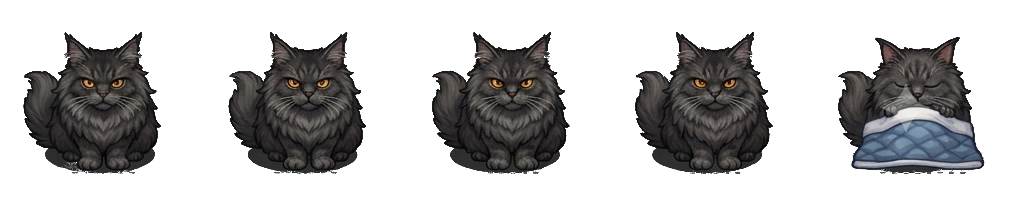
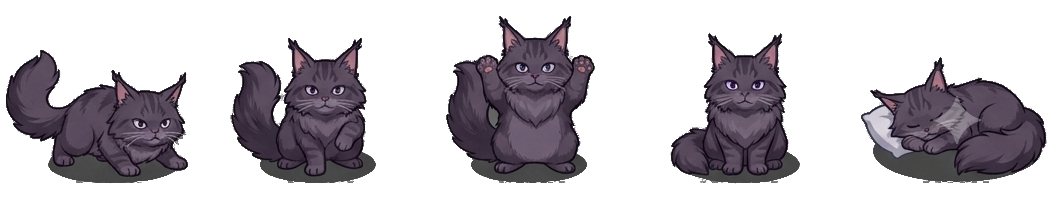
메인쿤 재발주 — 발주서부터 새 그림까지 (#2)
* 메인쿤 재발주서 — 잰 수치로 대상을 좁히고, 칸별 앞발 위치를 못 박는다

앞 작업에서 "그림은 붙었지만 애니메이션이 밋밋하다"고 적었다. 눈으로 본
인상이었고, 열다섯 마리를 실제로 재 보니 그 판단이 틀렸다.

칸끼리 픽셀 변화율 (알파나 색이 40 넘게 다른 픽셀 / 둘 중 하나라도 그림이 있는 픽셀)

                     0↔1   1↔2   2↔3   0↔3
  검은냥(기존 최저)    18%   26%   19%   35%
  사바나냥            59%   37%   34%   66%   ← 기존 아홉보다 잘 움직인다
  메인쿤냥            19%    8%    5%   25%   ← 유일하게 기준선 아래

정정: 커밋 97bb210 다음 커밋과 PR #1 에 "메인쿤·사바나"라고 적은 것은 틀렸다.
사바나는 멀쩡하다. 그대로 뒀으면 필요 없는 발주를 한 번 더 했다.
푸시된 커밋 메시지는 안 고친다(히스토리를 다시 쓰지 않는다) — 문서에서 고쳤다.

- tools/art-spec.mjs
  - REDO_CATS = ['mainecoon'] — 그림이 붙은 고양이는 발주 목록에서 빠지므로
    (newCats 는 !t.frames 로 고른다) 다시 받을 통로가 없었다. 보스의 KEEP_AS_IS
    와 같은 결로 손으로 관리한다. 왜 이 한 마리인지 위 수치를 주석에 적었다.
  - CAT_BRIEF 에 선택 필드 frames(문자열 5개). 있으면 규칙 아래에 '이 고양이의
    다섯 칸' 블록이 붙는다. 칸 밖에 그린다 — 칸 안에 글씨를 넣으면 그대로
    그려져 온다(COMMON 이 금지하는 그것이다).
  - 메인쿤 다섯 칸: 앞발이 바닥 → 가슴 → 어깨 위 → 바닥으로 오가는 호(弧).
    wrong 도 '가장 커야 한다'(주문대로 왔다)에서 실제 실패로 바꿨다.
  - 재발주 칸에는 지금 그림을 안 깐다. 처음 구웠을 때 다섯 칸에 지금의 메인쿤이
    그대로 깔렸다 — 고치려는 것을 시트가 가르치는 셈이라 벡터 밑그림으로 되돌렸다.
    화풍은 오른쪽 위 참고 띠(메인쿤 자신도 거기 있다)가 맡는다.
  - 새 규칙 한 줄이 폭을 8px 넘겨 도구가 예외를 던졌다 — 줄여서 통과시켰다.
- docs/확장가이드.md — '이미 붙은 그림을 다시 받고 싶을 때' 절. 밋밋한지는
  눈이 아니라 재서 판단한다는 것과 기준선을 적었다.
- docs/속성과카드.md — 사바나를 뺀 정정.
- tools/slice-sheet.mjs — 주석의 발주서 이름이 없는 파일을 가리키고 있었다
  (24-art-cards-*.png → 23-art-cats-*.png).

결과: tools/out/23-art-cats-1.png 한 장 (1694×1423, 예상 셀 218px —
지난 6종 시트의 실제 201px 보다 크다. 한 마리라 칸 수가 절반이다).
검사 567 그대로 · i18n 6항목 0건 · web/ 은 안 건드렸다.
[…]

diff --git a/web/js/framesets.js b/web/js/framesets.js
@@ -98,8 +98,15 @@ registerFrameSet('cat-angora', {
 registerFrameSet('cat-savannah', {
   src: 'art/cat-savannah.png', ...CAT4, body: { cx: 94, cy: 103, h: 141 },
 })
+/*
+ * 메인쿤만 칸이 212px 이다 — 다섯 마리와 같이 온 그림의 다섯 칸이 서로 8%·5% 밖에
+ * 안 달라(기존 최저는 18%·26%) 혼자 다시 받았고, 한 마리짜리 시트라 칸이 커졌다.
+ * 다시 받은 그림은 53%·38%·52% · 발사↔대기 66% 로 기존 아홉 대역 안에 들어왔다.
+ * body 는 같은 규칙으로 대기 칸에서 쟀다 (h 152 = 칸의 0.72).
+ */
 registerFrameSet('cat-mainecoon', {
-  src: 'art/cat-mainecoon.png', ...CAT4, body: { cx: 98, cy: 103, h: 142 },
+  src: 'art/cat-mainecoon.png', frames: 5, w: 212, h: 212,
+  body: { cx: 99, cy: 108, h: 152 },
 })
 
 /**

diff --git a/docs/확장가이드.md b/docs/확장가이드.md
@@ -247,6 +247,32 @@ NODE_PATH=/opt/node22/lib/node_modules node tools/art-spec.mjs
 고리·엘리트 왕관은 코드가 그리므로 프레임이 필요 없고, 프레임을 줄인 만큼 같은
 가로 폭에서 칸이 커진다 = 그림이 커진다.
 
+### 이미 붙은 그림을 **다시** 받고 싶을 때
+
+발주 대상은 `newCats = listTowers().filter((t) => !t.frames)` 다 — `frames` 가 붙으면 목록에서 빠진다.
+그래서 그림이 마음에 안 들어도 그대로는 발주서가 안 나온다. `art-spec.mjs` 의 `REDO_CATS` 에
+id 를 넣으면 다시 나온다(보스의 `KEEP_AS_IS` 와 같은 결로 손으로 관리하는 목록이다).
+
+재발주 시트는 두 가지가 다르다:
+
+- **격자 칸에 지금 그림을 안 깐다.** 그대로 깔면 "이 다섯 칸을 그대로 다시 그려라"가 되어
+  고치려는 것을 시트가 가르친다 — 메인쿤 재발주 때 실제로 그렇게 나왔다. 벡터 밑그림으로
+  자리와 크기만 주고, **화풍은 오른쪽 위 참고 띠**(그 고양이 자신도 거기 있다)가 맡는다
+- 부제가 "그림이 없어 도형으로 나옵니다" 대신 "다시 받습니다. 화풍은 그대로, 동작만"이 된다
+
+그리고 `CAT_BRIEF` 항목에 **`frames`(문자열 5개)** 를 주면 규칙 아래에 '이 고양이의 다섯 칸'
+블록이 붙는다. 칸 *밖*에 그린다 — 칸 안에 글씨를 넣으면 그대로 그려져 온다.
+규칙 한 줄('다섯 칸은 연속 동작입니다')로는 안 지켜져서 생긴 장치다.
+
+**밋밋한지는 눈이 아니라 재서 판단한다.** 칸끼리 픽셀이 몇 % 달라지는지 세면 된다
+(알파나 색이 40 넘게 다른 픽셀 / 둘 중 하나라도 그림이 있는 픽셀). 기준선은 기존 아홉 중
+가장 낮은 검은냥 — 이웃 칸 18%·26%·19%, 발사↔대기 35%. 메인쿤은 8%·5%·25% 로 그 아래였고,
+같이 밋밋해 보이던 사바나는 59/37/34 · 66% 로 **기준선 위였다**(눈이 틀렸다).
+
+**결과: 통했다.** 다시 받은 메인쿤은 53%·38%·52% · 발사↔대기 66% 로 기존 대역 안에 들어왔다.
+칸도 212px 로 커져서(한 마리 시트라 칸 수가 절반) `framesets.js` 에서 이 한 마리만 CAT4(202px)를
+안 쓰고 따로 등록한다 — `body.h` 가 화면 크기를 맞추므로 섞여도 열다섯이 같은 크기로 나온다.
+
 ### 돌아온 그림에서 매번 겪는 것 세 가지
 
 1. **크기가 줄어서 온다.** 생성기는 비율만 지키고 넓이를 약 1.05메가픽셀로 맞춘다

diff --git a/docs/속성과카드.md b/docs/속성과카드.md
@@ -156,7 +156,10 @@ J 단계에서 들어온 것 넷을 한자리에 모았다: **속성 상성** ·
   적 14종이 흙 5 · 어둠 4 로 쏠려 있어 "얼음 적만 나오는 웨이브"를 못 만들기 때문이다.
   숨기지는 않는다: 들어가기 전 화면과 HUD 에 적는다
 - **평생 기록에서 원정 여섯 칸은 여섯 판으로 센다.** 칸마다 진짜 한 판이라 그대로 뒀다
-- **새 고양이 여섯도 그림이 붙었다**(`art/cat-{munchkin,bengal,forest,angora,savannah,mainecoon}.png`,
-  칸 202px · 5프레임). 다만 **칸 사이 동작 차이가 기존 아홉보다 작다** — 특히 메인쿤·사바나는
-  ①~④ 가 꼬리만 움직인다. 게임 안에서 밋밋하면 자르기로는 못 고치고 **발주를 다시 넣어야 한다**
+- **새 고양이 여섯 다 그림이 붙었다**(`art/cat-*.png` · 5프레임 · 칸 202px, 메인쿤만 212px).
+  메인쿤은 **한 번 다시 받았다** — 처음 온 그림이 칸끼리 1↔2 **8%** · 2↔3 **5%** 밖에 안 달라
+  게임에서 정지 화면처럼 보였다(기존 아홉 중 최저인 검은냥이 18% · 26%). 다시 받은 것은
+  53% · 38% · 52% · 발사↔대기 66% 로 기존 대역 안에 들어왔다. 나머지 다섯은 처음부터 대역 안이었다 —
+  같이 밋밋해 보이던 사바나는 실제로 재니 59/37/34 · 66% 로 **오히려 기존 아홉보다 잘 움직였다**
+  (눈으로 본 인상이 틀렸다). 판단은 `tools/art-spec.mjs` 의 `REDO_CATS` 주석에 수치로 남아 있다
 - **밸런스는 봇 기준이다.** 사람의 룬 운용과 자리 잡기는 봇이 흉내내지 못한다
